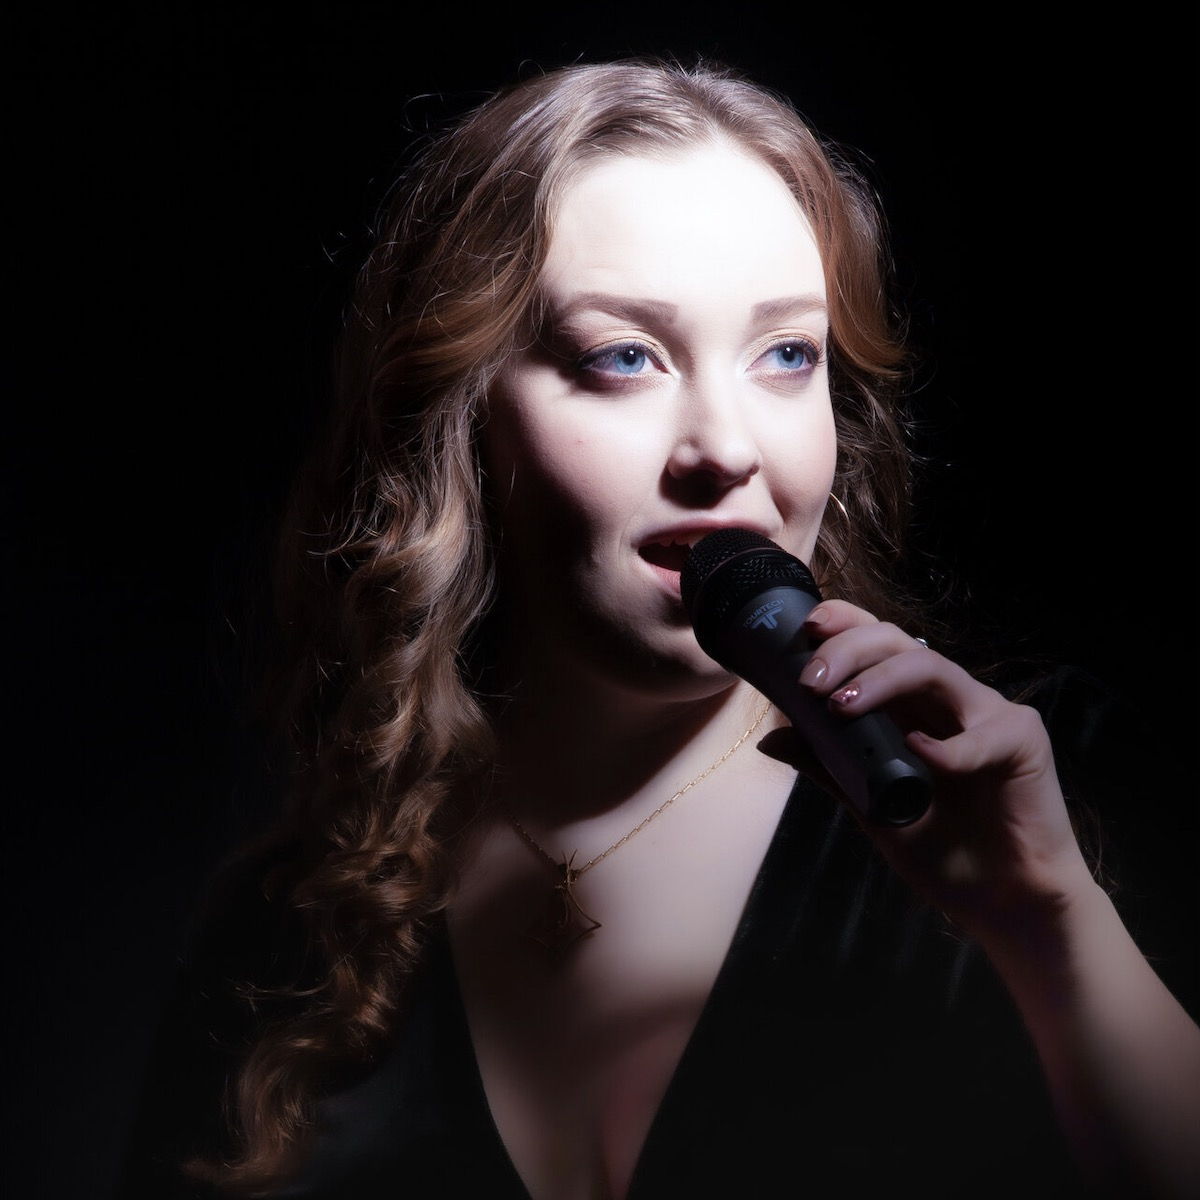
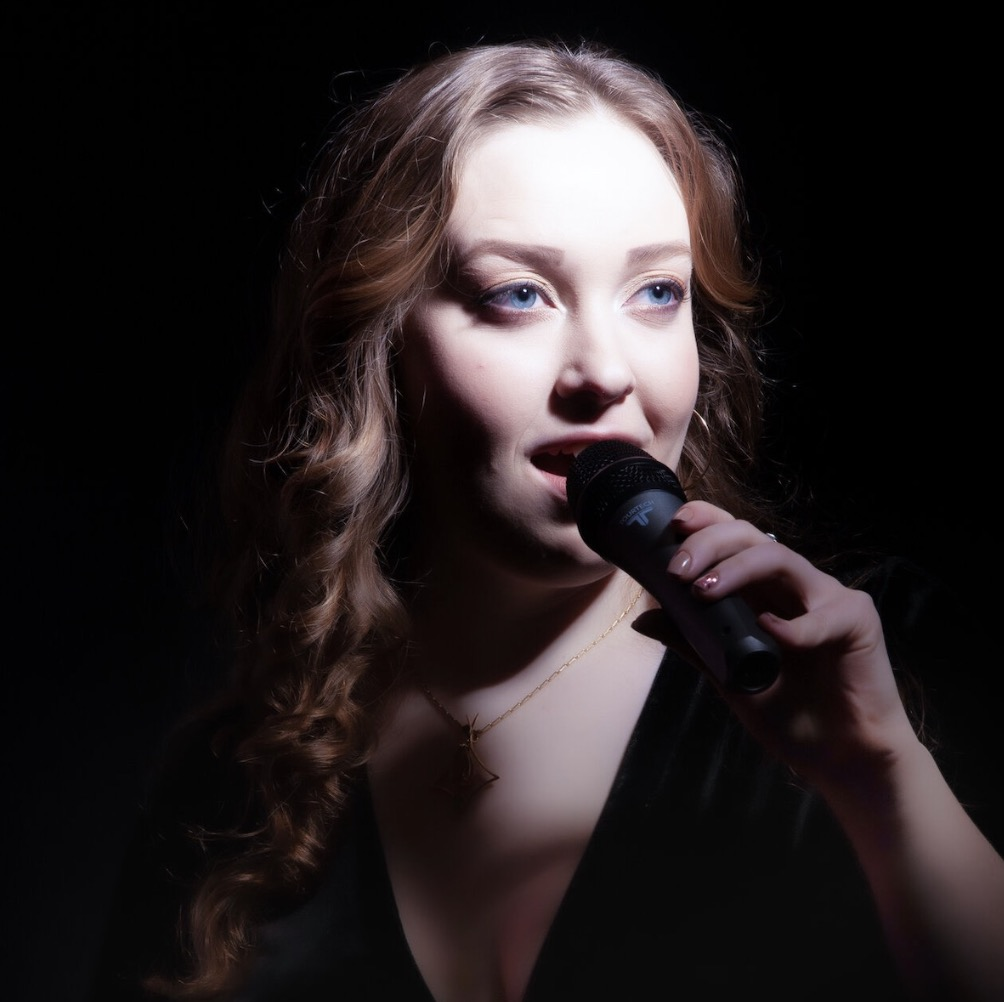
optimise images to speed up loading

diff --git a/public/bundle.js b/public/bundle.js
@@ -1061,7 +1061,7 @@ eval("__webpack_require__.r(__webpack_exports__);\n/* harmony export */ __webpac
 /***/ ((__unused_webpack_module, __webpack_exports__, __webpack_require__) => {
 
 "use strict";
-eval("__webpack_require__.r(__webpack_exports__);\n/* harmony export */ __webpack_require__.d(__webpack_exports__, {\n/* harmony export */   \"default\": () => (__WEBPACK_DEFAULT_EXPORT__)\n/* harmony export */ });\n/* harmony import */ var react__WEBPACK_IMPORTED_MODULE_0__ = __webpack_require__(/*! react */ \"./node_modules/react/index.js\");\n/* harmony import */ var react__WEBPACK_IMPORTED_MODULE_0___default = /*#__PURE__*/__webpack_require__.n(react__WEBPACK_IMPORTED_MODULE_0__);\n/* harmony import */ var styled_components__WEBPACK_IMPORTED_MODULE_2__ = __webpack_require__(/*! styled-components */ \"./node_modules/styled-components/dist/styled-components.browser.esm.js\");\n/* harmony import */ var _theme_theme_json__WEBPACK_IMPORTED_MODULE_1__ = __webpack_require__(/*! ../theme/theme.json */ \"./client/src/theme/theme.json\");\nvar _templateObject, _templateObject2;\nfunction _taggedTemplateLiteral(e, t) { return t || (t = e.slice(0)), Object.freeze(Object.defineProperties(e, { raw: { value: Object.freeze(t) } })); }\n\n\n\nvar Container = styled_components__WEBPACK_IMPORTED_MODULE_2__[\"default\"].div(_templateObject || (_templateObject = _taggedTemplateLiteral([\"\\n  display: flex;\\n  flex-direction: row;\\n  gap: 15px;\\n  justify-content: center;\\n  align-items: center;\\n  bottom: -2px;\\n  background-color: \", \";\\n  padding: 20px;\\n\"])), _theme_theme_json__WEBPACK_IMPORTED_MODULE_1__.headerFooterColor);\nvar StyledImage = styled_components__WEBPACK_IMPORTED_MODULE_2__[\"default\"].img(_templateObject2 || (_templateObject2 = _taggedTemplateLiteral([\"\\n  width: 50px;\\n  height: 50px;\\n\"])));\nvar Footer = function Footer() {\n  return /*#__PURE__*/react__WEBPACK_IMPORTED_MODULE_0___default().createElement(Container, null, /*#__PURE__*/react__WEBPACK_IMPORTED_MODULE_0___default().createElement(\"a\", {\n    href: \"https://www.instagram.com/lowriesings/\",\n    target: \"_blank\"\n  }, /*#__PURE__*/react__WEBPACK_IMPORTED_MODULE_0___default().createElement(StyledImage, {\n    src: \"images/instagram.png\",\n    alt: \"instagram logo\"\n  })), /*#__PURE__*/react__WEBPACK_IMPORTED_MODULE_0___default().createElement(\"a\", {\n    href: \"https://www.facebook.com/lowrie.gelbierbull\",\n    target: \"_blank\"\n  }, /*#__PURE__*/react__WEBPACK_IMPORTED_MODULE_0___default().createElement(StyledImage, {\n    src: \"images/facebook.png\",\n    alt: \"facebook logo\"\n  })), /*#__PURE__*/react__WEBPACK_IMPORTED_MODULE_0___default().createElement(\"a\", {\n    href: \"https://www.youtube.com/@lowriegelbier-bull\",\n    target: \"_blank\"\n  }, /*#__PURE__*/react__WEBPACK_IMPORTED_MODULE_0___default().createElement(StyledImage, {\n    src: \"images/youtube.png\",\n    alt: \"youtube logo\"\n  })), /*#__PURE__*/react__WEBPACK_IMPORTED_MODULE_0___default().createElement(\"a\", {\n    href: \"https://encoremusicians.com/Lowrieweddingsinger\",\n    target: \"_blank\"\n  }, /*#__PURE__*/react__WEBPACK_IMPORTED_MODULE_0___default().createElement(StyledImage, {\n    src: \"https://encoremusicians.com/img/embeds/badge-dark.svg\",\n    alt: \"Book Lowrie on Encore Musicians\",\n    style: {\n      border: \"2px solid white\",\n      borderRadius: \"40px\"\n    }\n  })));\n};\n/* harmony default export */ const __WEBPACK_DEFAULT_EXPORT__ = (Footer);\n\n//# sourceURL=webpack://lowriesings/./client/src/components/Footer.jsx?");
+eval("__webpack_require__.r(__webpack_exports__);\n/* harmony export */ __webpack_require__.d(__webpack_exports__, {\n/* harmony export */   \"default\": () => (__WEBPACK_DEFAULT_EXPORT__)\n/* harmony export */ });\n/* harmony import */ var react__WEBPACK_IMPORTED_MODULE_0__ = __webpack_require__(/*! react */ \"./node_modules/react/index.js\");\n/* harmony import */ var react__WEBPACK_IMPORTED_MODULE_0___default = /*#__PURE__*/__webpack_require__.n(react__WEBPACK_IMPORTED_MODULE_0__);\n/* harmony import */ var styled_components__WEBPACK_IMPORTED_MODULE_2__ = __webpack_require__(/*! styled-components */ \"./node_modules/styled-components/dist/styled-components.browser.esm.js\");\n/* harmony import */ var _theme_theme_json__WEBPACK_IMPORTED_MODULE_1__ = __webpack_require__(/*! ../theme/theme.json */ \"./client/src/theme/theme.json\");\nvar _templateObject, _templateObject2;\nfunction _taggedTemplateLiteral(e, t) { return t || (t = e.slice(0)), Object.freeze(Object.defineProperties(e, { raw: { value: Object.freeze(t) } })); }\n\n\n\nvar Container = styled_components__WEBPACK_IMPORTED_MODULE_2__[\"default\"].div(_templateObject || (_templateObject = _taggedTemplateLiteral([\"\\n  display: flex;\\n  flex-direction: row;\\n  gap: 15px;\\n  justify-content: center;\\n  align-items: center;\\n  bottom: -2px;\\n  background-color: \", \";\\n  padding: 20px;\\n\"])), _theme_theme_json__WEBPACK_IMPORTED_MODULE_1__.headerFooterColor);\nvar StyledImage = styled_components__WEBPACK_IMPORTED_MODULE_2__[\"default\"].img(_templateObject2 || (_templateObject2 = _taggedTemplateLiteral([\"\\n  width: 50px;\\n  height: 50px;\\n\"])));\nvar Footer = function Footer() {\n  return /*#__PURE__*/react__WEBPACK_IMPORTED_MODULE_0___default().createElement(Container, null, /*#__PURE__*/react__WEBPACK_IMPORTED_MODULE_0___default().createElement(\"a\", {\n    href: \"https://www.instagram.com/lowriesings/\",\n    target: \"_blank\"\n  }, /*#__PURE__*/react__WEBPACK_IMPORTED_MODULE_0___default().createElement(StyledImage, {\n    src: \"images/instagram.png\",\n    alt: \"instagram logo\"\n  })), /*#__PURE__*/react__WEBPACK_IMPORTED_MODULE_0___default().createElement(\"a\", {\n    href: \"https://www.youtube.com/@lowriegelbier-bull\",\n    target: \"_blank\"\n  }, /*#__PURE__*/react__WEBPACK_IMPORTED_MODULE_0___default().createElement(StyledImage, {\n    src: \"images/youtube.png\",\n    alt: \"youtube logo\"\n  })), /*#__PURE__*/react__WEBPACK_IMPORTED_MODULE_0___default().createElement(\"a\", {\n    href: \"https://encoremusicians.com/Lowrieweddingsinger\",\n    target: \"_blank\"\n  }, /*#__PURE__*/react__WEBPACK_IMPORTED_MODULE_0___default().createElement(StyledImage, {\n    src: \"https://encoremusicians.com/img/embeds/badge-dark.svg\",\n    alt: \"Book Lowrie on Encore Musicians\",\n    style: {\n      border: \"2px solid white\",\n      borderRadius: \"40px\"\n    }\n  })));\n};\n/* harmony default export */ const __WEBPACK_DEFAULT_EXPORT__ = (Footer);\n\n//# sourceURL=webpack://lowriesings/./client/src/components/Footer.jsx?");
 
 /***/ }),
 
@@ -1083,7 +1083,7 @@ eval("__webpack_require__.r(__webpack_exports__);\n/* harmony export */ __webpac
 /***/ ((__unused_webpack_module, __webpack_exports__, __webpack_require__) => {
 
 "use strict";
-eval("__webpack_require__.r(__webpack_exports__);\n/* harmony export */ __webpack_require__.d(__webpack_exports__, {\n/* harmony export */   Contact: () => (/* binding */ Contact),\n/* harmony export */   sendMessage: () => (/* binding */ sendMessage)\n/* harmony export */ });\n/* harmony import */ var react__WEBPACK_IMPORTED_MODULE_0__ = __webpack_require__(/*! react */ \"./node_modules/react/index.js\");\n/* harmony import */ var react__WEBPACK_IMPORTED_MODULE_0___default = /*#__PURE__*/__webpack_require__.n(react__WEBPACK_IMPORTED_MODULE_0__);\n/* harmony import */ var styled_components__WEBPACK_IMPORTED_MODULE_2__ = __webpack_require__(/*! styled-components */ \"./node_modules/styled-components/dist/styled-components.browser.esm.js\");\n/* harmony import */ var _hooks_js__WEBPACK_IMPORTED_MODULE_1__ = __webpack_require__(/*! ../../hooks.js */ \"./client/src/hooks.js\");\nvar _templateObject, _templateObject2, _templateObject3, _templateObject4, _templateObject5;\nfunction _taggedTemplateLiteral(e, t) { return t || (t = e.slice(0)), Object.freeze(Object.defineProperties(e, { raw: { value: Object.freeze(t) } })); }\n\n\n\nvar sendMessage = function sendMessage(messageText) {\n  console.log(messageText);\n  if (messageText) {\n    // setMessageText(\"\");\n    console.log(messageText);\n    // send email\n    toast.success(\"Thanks for your message! I try to response to everyone within 2 days\", {\n      theme: \"colored\"\n    });\n  }\n};\nvar StyledForm = styled_components__WEBPACK_IMPORTED_MODULE_2__[\"default\"].form(_templateObject || (_templateObject = _taggedTemplateLiteral([\"\\n  width: 100%;\\n  display: flex;\\n  flex-direction: column;\\n  align-items: center;\\n  gap: 10px;\\n  margin-bottom: 40px;\\n\"])));\nvar StyledInput = styled_components__WEBPACK_IMPORTED_MODULE_2__[\"default\"].input(_templateObject2 || (_templateObject2 = _taggedTemplateLiteral([\"\\n  width: 90%;\\n  font-family: \\\"Edensor\\\";\\n  font-size: 20px;\\n\"])));\nvar StyledTextArea = styled_components__WEBPACK_IMPORTED_MODULE_2__[\"default\"].textarea(_templateObject3 || (_templateObject3 = _taggedTemplateLiteral([\"\\n  padding: 10px;\\n  width: calc(90% - 22px);\\n  border-radius: 10px;\\n  font-family: \\\"Edensor\\\";\\n  font-size: 20px;\\n  resize: none;\\n\"])));\nvar Container = styled_components__WEBPACK_IMPORTED_MODULE_2__[\"default\"].div(_templateObject4 || (_templateObject4 = _taggedTemplateLiteral([\"\\n  display: flex;\\n  height: 100%;\\n  flex-direction: column;\\n  align-items: center;\\n  padding: 0 20px;\\n\"])));\nvar StyledImg = styled_components__WEBPACK_IMPORTED_MODULE_2__[\"default\"].img(_templateObject5 || (_templateObject5 = _taggedTemplateLiteral([\"\\n  width: 100%;\\n  border-radius: 10px;\\n  margin-top: 20px;\\n  border: 1px solid black;\\n  border-radius: 10px;\\n  max-width: 750px;\\n\"])));\nvar Contact = function Contact(_ref) {\n  var message = _ref.message,\n    setMessage = _ref.setMessage;\n  var handleClick = function handleClick(e) {\n    var email = \"lowriesings@gmail.com\";\n    var subject = \"Website request\";\n    var toSend = message.replaceAll(\"\\n\", \"%0D\");\n    e.preventDefault();\n    window.open(\"mailto:\".concat(email, \"?subject=\").concat(subject, \"&body=\").concat(toSend));\n  };\n  return /*#__PURE__*/react__WEBPACK_IMPORTED_MODULE_0___default().createElement(Container, null, /*#__PURE__*/react__WEBPACK_IMPORTED_MODULE_0___default().createElement(\"h1\", null, \"Contact\"), /*#__PURE__*/react__WEBPACK_IMPORTED_MODULE_0___default().createElement(StyledImg, {\n    src: \"images/lowriebandw.jpeg\",\n    alt: \"Black and white photo of Lowrie\"\n  }), /*#__PURE__*/react__WEBPACK_IMPORTED_MODULE_0___default().createElement(\"p\", null, \"I'd love to hear from you! Please get in touch to let me know your name, event date and location and I'll get back to you as soon as possible!\"), /*#__PURE__*/react__WEBPACK_IMPORTED_MODULE_0___default().createElement(StyledForm, {\n    onSubmit: handleClick\n  }, /*#__PURE__*/react__WEBPACK_IMPORTED_MODULE_0___default().createElement(StyledTextArea, {\n    placeholder: \"Your message here\",\n    rows: 10,\n    value: message,\n    onChange: function onChange(e) {\n      return setMessage(e.target.value);\n    }\n  }), /*#__PURE__*/react__WEBPACK_IMPORTED_MODULE_0___default().createElement(StyledInput, {\n    type: \"submit\",\n    value: \"Send\"\n  })), /*#__PURE__*/react__WEBPACK_IMPORTED_MODULE_0___default().createElement(\"p\", null, \"Alternatively, you can email me at: \", /*#__PURE__*/react__WEBPACK_IMPORTED_MODULE_0___default().createElement(\"a\", {\n    href: \"mailto:lowriesings@gmail.com\"\n  }, \"lowriesings@gmail.com\"), \" or you can reach out to me on my socials below:\"));\n};\n\n//# sourceURL=webpack://lowriesings/./client/src/components/pages/Contact.jsx?");
+eval("__webpack_require__.r(__webpack_exports__);\n/* harmony export */ __webpack_require__.d(__webpack_exports__, {\n/* harmony export */   Contact: () => (/* binding */ Contact),\n/* harmony export */   sendMessage: () => (/* binding */ sendMessage)\n/* harmony export */ });\n/* harmony import */ var react__WEBPACK_IMPORTED_MODULE_0__ = __webpack_require__(/*! react */ \"./node_modules/react/index.js\");\n/* harmony import */ var react__WEBPACK_IMPORTED_MODULE_0___default = /*#__PURE__*/__webpack_require__.n(react__WEBPACK_IMPORTED_MODULE_0__);\n/* harmony import */ var styled_components__WEBPACK_IMPORTED_MODULE_2__ = __webpack_require__(/*! styled-components */ \"./node_modules/styled-components/dist/styled-components.browser.esm.js\");\n/* harmony import */ var _hooks_js__WEBPACK_IMPORTED_MODULE_1__ = __webpack_require__(/*! ../../hooks.js */ \"./client/src/hooks.js\");\nvar _templateObject, _templateObject2, _templateObject3, _templateObject4, _templateObject5;\nfunction _taggedTemplateLiteral(e, t) { return t || (t = e.slice(0)), Object.freeze(Object.defineProperties(e, { raw: { value: Object.freeze(t) } })); }\n\n\n\nvar sendMessage = function sendMessage(messageText) {\n  console.log(messageText);\n  if (messageText) {\n    // setMessageText(\"\");\n    console.log(messageText);\n    // send email\n    toast.success(\"Thanks for your message! I try to response to everyone within 2 days\", {\n      theme: \"colored\"\n    });\n  }\n};\nvar StyledForm = styled_components__WEBPACK_IMPORTED_MODULE_2__[\"default\"].form(_templateObject || (_templateObject = _taggedTemplateLiteral([\"\\n  width: 100%;\\n  display: flex;\\n  flex-direction: column;\\n  align-items: center;\\n  gap: 10px;\\n  margin-bottom: 40px;\\n\"])));\nvar StyledInput = styled_components__WEBPACK_IMPORTED_MODULE_2__[\"default\"].input(_templateObject2 || (_templateObject2 = _taggedTemplateLiteral([\"\\n  width: 90%;\\n  font-family: \\\"Edensor\\\";\\n  font-size: 20px;\\n\"])));\nvar StyledTextArea = styled_components__WEBPACK_IMPORTED_MODULE_2__[\"default\"].textarea(_templateObject3 || (_templateObject3 = _taggedTemplateLiteral([\"\\n  padding: 10px;\\n  width: calc(90% - 22px);\\n  border-radius: 10px;\\n  font-family: \\\"Edensor\\\";\\n  font-size: 20px;\\n  resize: none;\\n\"])));\nvar Container = styled_components__WEBPACK_IMPORTED_MODULE_2__[\"default\"].div(_templateObject4 || (_templateObject4 = _taggedTemplateLiteral([\"\\n  display: flex;\\n  height: 100%;\\n  flex-direction: column;\\n  align-items: center;\\n  padding: 0 20px;\\n\"])));\nvar StyledImg = styled_components__WEBPACK_IMPORTED_MODULE_2__[\"default\"].img(_templateObject5 || (_templateObject5 = _taggedTemplateLiteral([\"\\n  width: 100%;\\n  border-radius: 10px;\\n  margin-top: 20px;\\n  border: 1px solid black;\\n  border-radius: 10px;\\n  max-width: 750px;\\n\"])));\nvar Contact = function Contact(_ref) {\n  var message = _ref.message,\n    setMessage = _ref.setMessage;\n  var handleClick = function handleClick(e) {\n    var email = \"lowriesings@gmail.com\";\n    var subject = \"Website request\";\n    var toSend = message.replaceAll(\"\\n\", \"%0D\");\n    e.preventDefault();\n    window.open(\"mailto:\".concat(email, \"?subject=\").concat(subject, \"&body=\").concat(toSend));\n  };\n  return /*#__PURE__*/react__WEBPACK_IMPORTED_MODULE_0___default().createElement(Container, null, /*#__PURE__*/react__WEBPACK_IMPORTED_MODULE_0___default().createElement(\"h1\", null, \"Contact\"), /*#__PURE__*/react__WEBPACK_IMPORTED_MODULE_0___default().createElement(StyledImg, {\n    src: \"images/lowriebandw.jpg\",\n    alt: \"Black and white photo of Lowrie\"\n  }), /*#__PURE__*/react__WEBPACK_IMPORTED_MODULE_0___default().createElement(\"p\", null, \"I'd love to hear from you! Please get in touch to let me know your name, event date and location and I'll get back to you as soon as possible!\"), /*#__PURE__*/react__WEBPACK_IMPORTED_MODULE_0___default().createElement(StyledForm, {\n    onSubmit: handleClick\n  }, /*#__PURE__*/react__WEBPACK_IMPORTED_MODULE_0___default().createElement(StyledTextArea, {\n    placeholder: \"Your message here\",\n    rows: 10,\n    value: message,\n    onChange: function onChange(e) {\n      return setMessage(e.target.value);\n    }\n  }), /*#__PURE__*/react__WEBPACK_IMPORTED_MODULE_0___default().createElement(StyledInput, {\n    type: \"submit\",\n    value: \"Send\"\n  })), /*#__PURE__*/react__WEBPACK_IMPORTED_MODULE_0___default().createElement(\"p\", null, \"Alternatively, you can email me at: \", /*#__PURE__*/react__WEBPACK_IMPORTED_MODULE_0___default().createElement(\"a\", {\n    href: \"mailto:lowriesings@gmail.com\"\n  }, \"lowriesings@gmail.com\"), \" or you can reach out to me on my socials below:\"));\n};\n\n//# sourceURL=webpack://lowriesings/./client/src/components/pages/Contact.jsx?");
 
 /***/ }),
 

diff --git a/client/src/components/pages/Contact.jsx b/client/src/components/pages/Contact.jsx
@@ -68,7 +68,7 @@ export const Contact = ({ message, setMessage }) => {
     <Container>
       <h1>Contact</h1>
       <StyledImg
-        src="images/lowriebandw.jpeg"
+        src="images/lowriebandw.jpg"
         alt="Black and white photo of Lowrie"
       />
       <p>
